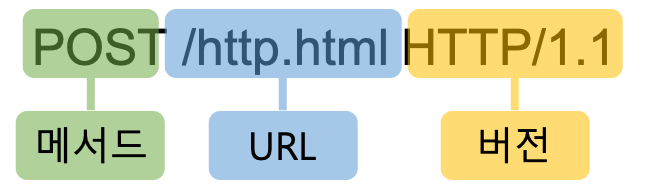
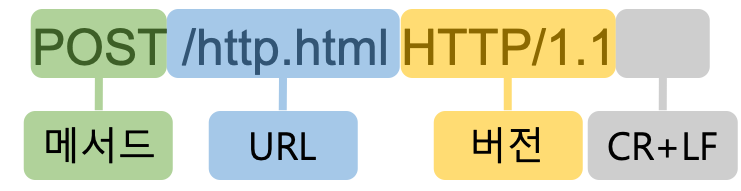
draft: update http

diff --git a/_drafts/tech/etc/http.md b/_drafts/tech/etc/http.md
@@ -9,18 +9,18 @@ summary: HTTP는 인터넷에서 데이터를 구조 받을 수 있는 프로토
 HTTP는 인터넷에서 데이터를 주고 받을 수 있는 프로토콜로 텍스트 기반의 통신 규약입니다. 이번 포스트에서 HTTP가 무엇인지 살펴보도록 하겠습니다.
 
 # HTTP란
-HTTP(Hyper Text Transfer Protocol)는 W3(World Wide Web)에서 정보를 주고 받을 수 있는 프로토콜로, HTTP는 클라이언드와 서버 사이에 이루어지는 요청/응답(request/response) 프로토콜입니다.
-
-예를 들어 웹 브라우저가 HTTP를 통해 서버로부터 웹페이지(HTML)나 이미지를 요청하면 서버는 이 요청에 응답하여 필요한 정보를 전달하게 됩니다.
+HTTP(Hyper Text Transfer Protocol)는 W3(World Wide Web)에서 정보를 주고 받을 수 있는 프로토콜로, 클라이언드와 서버 사이에 이루어지는 요청/응답(request/response) 프로토콜입니다. 예를 들어 웹 브라우저가 HTTP를 통해 서버로부터 웹페이지(HTML)나 이미지를 요청하면 서버는 이 요청에 응답하여 필요한 정보를 전달합니다.
 
 # HTTP 특징
+HTTP는 아래 목록과 같이 간단함, 확장성, 무상태, 비연결성 4가지 특징을 가집니다.
+
 - **간단함**: HTTP는 사람이 읽고 해석할 수 있을 정도로 간단하게 만들어졌습니다. 아래에서 이야기 할 요청/응답 메시지 구조를 보면 알 수 있듯이 사람이 읽을 수 있도록 만들어진 프로토콜입니다.
 - **확장성**: 클라이언트와 서버가 서로 커스텀 헤더에 대한 합의가 이루어진다면, 헤더를 추가하는 등 확장이 용이한 프로토콜입니다.
 - **무상태**: HTTP는 상태를 저장하지 않습니다. 통신 상태나 이전 호출 결과 등등을 저장하지 않습니다. 상태 저장이 필요한 경우 쿠키나 세션등을 사용해야 합니다.
 - **비연결성**: HTTP는 클라이언트와 서버가 연결을 맺은 후 클라이언트의 요청에 서버가 응답을 마치면 연결이 끊어지게 됩니다. 이런 특징은 연결을 계속 유지할 때 필요한 자원을 줄일 수 있지만 매 요청마다 연결을 맺어야 하는 오버헤드가 발생하게 됩니다. HTTP 버전이 올라가면서 이런 오버헤드는 최적화 되었습니다.
 
 # HTTP 요청 메시지
-클라이언트가 서버에게 보내는 요청 메시지의 구조와 메시지 구성에 포함 되는 HTTP 메서드에 대해 좀 더 자세히 살펴보겠습니다.
+클라이언트가 서버에게 보내는 요청 메시지의 구조와 요청 메서드에 대해 살펴보겠습니다.
 
 ## 요청 메시지 구조
 요청 메시지 구조를 먼저 코드로 살펴보면, 바디가 없는 GET 요청 메시지는 아래와 같습니다.
@@ -51,7 +51,7 @@ Content-Length: 32
 > 
 > 타자기에서 다음 줄로 이동 할 때, 타자기의 커서를 맨 앞으로 이동한 후 종이를 위로 올려줘야 합니다. 즉 CR 후 LF를 해야 다음 줄로 이동하게 됩니다.
 > 
-> 윈도우에서는 CR + LF 이 두 동작을 합쳐서 Enter 동작을 하게 됩니다.
+> 타자기와 동일하게 윈도우에서도 CR + LF 이 두 동작을 합쳐서 Enter 동작을 하게 됩니다.
 
 바디가 있는 POST 요청 메시지를 보면서 구조를 더 자세히 살펴보도록 하겠습니다.
 
@@ -60,7 +60,7 @@ Content-Length: 32
 
 ![요청 라인 구조](/assets/img/posts/etc/request_line.png)
 
-요청 라인은 메서드, URL, 버전 순서로 작성됩니다.
+요청 라인은 요청 메서드, 요청하는 서버의 URL, HTTP 버전, 줄 바꿈을 위한 CR + LF 순서로 작성됩니다. 요청 메서드는 대소문자를 구분(GET과 get은 다름)하기 때문에 항상 대문자로 적어 주셔야 합니다.
 
 ### 요청 헤더(Request Header)
 아래 코드 부분이 요청 헤더입니다.
